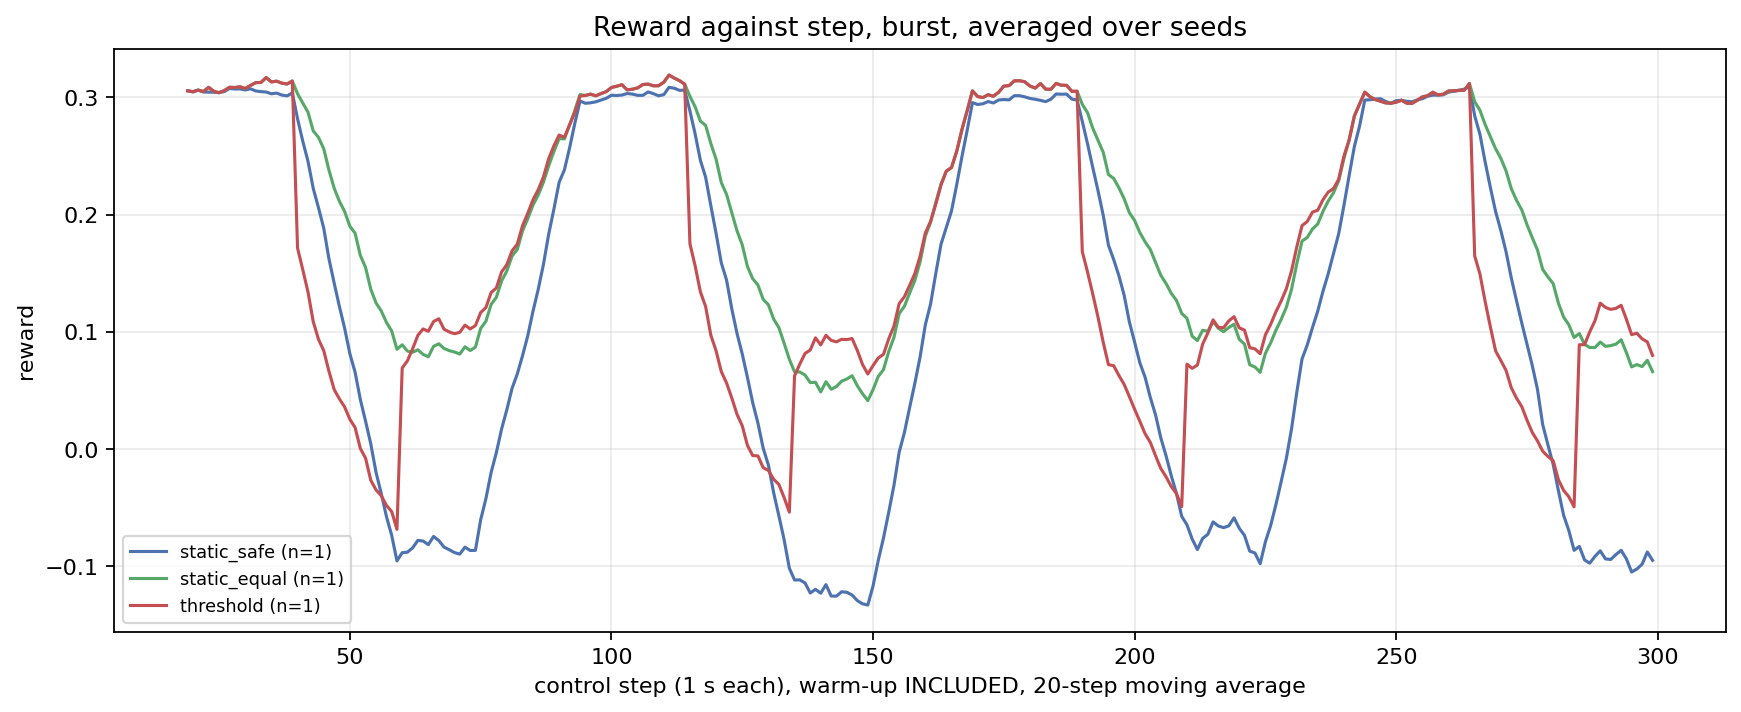
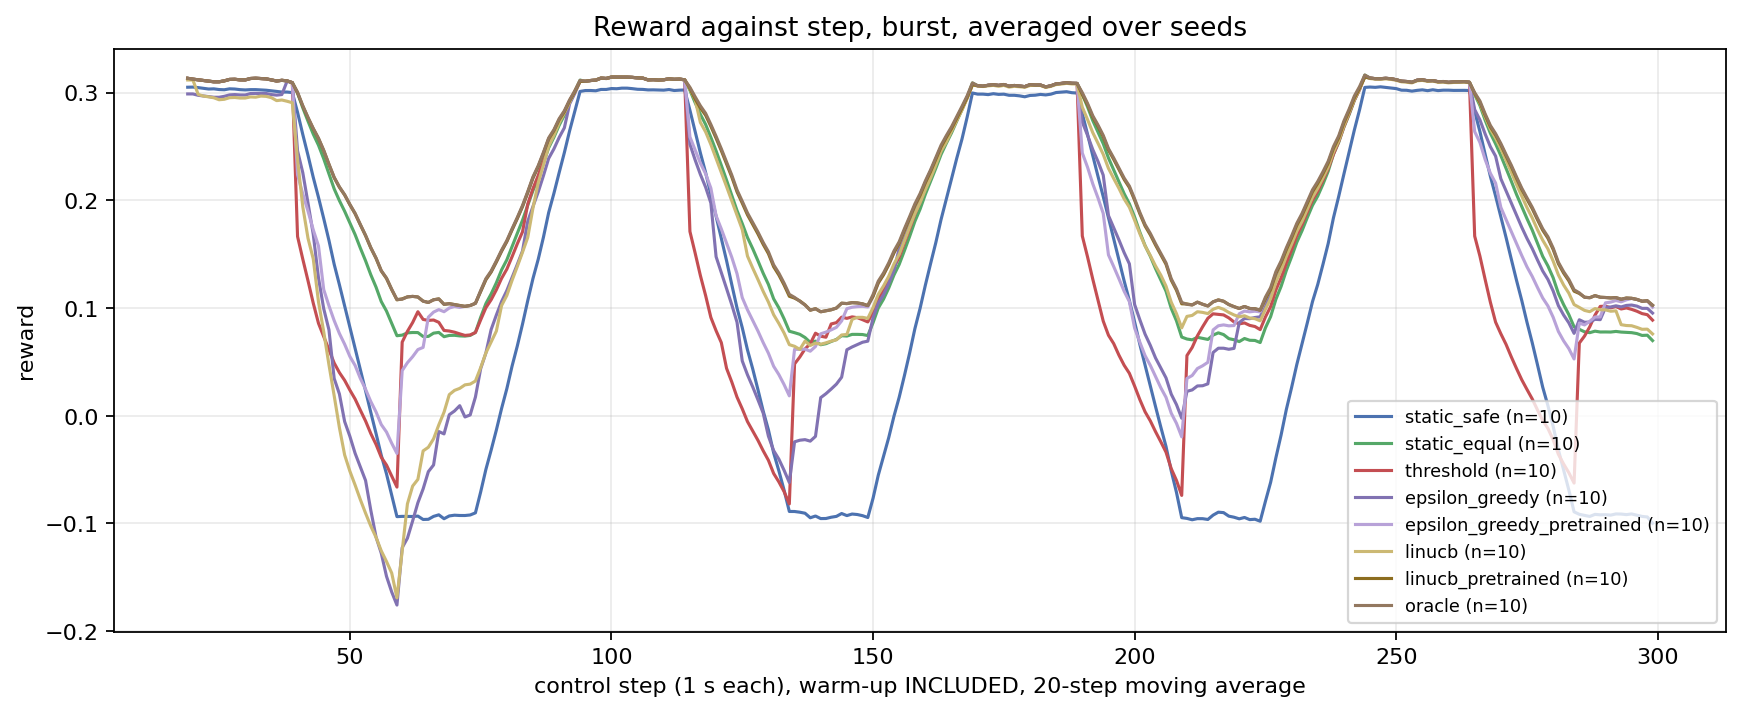
Quantify the guardrail's fast path; regenerate stale figures
Across all 320 runs (86,400 post-warm-up steps), 38.3 % of guardrail
escalations were tripped by the instantaneous p95 ALONE, against 4.8 % by
the EWMA alone. An EWMA-only guardrail would have missed more than a third
of them.

That decision was argued from first principles in week 1a with no evidence
behind it (docs/DESIGN.md section 4). It is the one design argument in the
project that the measurements later confirmed, so it is now stated with the
number rather than as a pointer at a figure.

Also: regenerated two figures that predated the final dataset, and
corrected the README's reproduction timings, which claimed 90 minutes for a
block of commands that takes about 30.

pytest -q: 121 passed.

Claude-Session: https://claude.ai/code/session_012qjq3AK2aXfZSQzmraFLmC

diff --git a/docs/EXPERIMENTS.md b/docs/EXPERIMENTS.md
@@ -236,8 +236,29 @@ shorter than the EWMA settling time. So:
 - The intervention rate is **not** a count of prevented violations. The counterfactual was never
   run. Some interventions would not have caused a violation at all.
 
-The instantaneous-tail fast path earns its place: `guardrail_escalation_source` is logged per step
-and figure `fig4_guardrail` shows the split between EWMA-only and instantaneous-only escalations.
+### The instantaneous fast path earns its place, and here is the number
+
+`docs/DESIGN.md` section 4 argued in week 1a that a guardrail watching only the smoothed latency
+would be late by construction against short sharp spikes, so the hard override fires on *either*
+the EWMA or the current p95, and `guardrail_escalation_source` records which. That was a design
+argument with no evidence behind it at the time. Across all 320 runs, 86,400 post-warm-up steps:
+
+| Which signal exceeded the threshold | steps | share of escalations |
+|---|---|---|
+| EWMA only (the slow path) | 838 | 4.8 % |
+| **instantaneous p95 only (the fast path)** | **6,740** | **38.3 %** |
+| both | 10,002 | 56.9 % |
+| total escalating steps | 17,580 | — |
+
+**An EWMA-only guardrail would have missed 38.3 % of all escalations** — 6,740 steps where latency
+had already crossed the threshold but the smoothed signal had not caught up. The converse case,
+where the EWMA fired and the instantaneous tail did not, accounts for 4.8 %. The fast path is
+carrying roughly eight times the unique load of the slow one, and dropping it would have quietly
+removed more than a third of the guardrail's coverage.
+
+This is the one design decision in the project that was argued from first principles in week one
+and is confirmed by measurement in week five. Figure `fig4_guardrail` shows the same split per
+policy.
 
 ---
 

diff --git a/README.md b/README.md
@@ -94,17 +94,26 @@ One run:
 python experiments/run_experiment.py --policy linucb --scenario burst --seed 0
 ```
 
-The whole thing, from nothing to tables and figures (about 90 minutes):
+Reproduce the results tables and figures (~30 min):
 
 ```bash
-python experiments/run_suite.py      # every policy x scenario x seed -> results/raw/
+python experiments/run_suite.py      # 320 runs -> results/raw/.  --resume continues an
+                                     # interrupted one without redoing finished cells.
 python -m analysis.aggregate         # seed-averaged tables -> results/summary/
 python -m analysis.plots             # five figures -> results/summary/figures/
 ```
 
-**Do not run two experiment scripts at once.** `decision_latency_ms` is measured against a real
-wall clock, and a second job on the same machine corrupts exactly the metric used to claim the
-method is lightweight.
+Reproduce the hyperparameter choice and the sensitivity study as well (~50 min more):
+
+```bash
+python experiments/tune.py                     # alpha and epsilon sweeps, 280 runs
+python experiments/sensitivity.py --resume     # reward-weight study, 720 runs
+```
+
+**Do not run two of these at once.** `decision_latency_ms` is measured against a real wall clock,
+and a second job on the same machine corrupts exactly the metric used to claim the method is
+lightweight. Both long scripts are resumable, so an interruption costs only the runs it was in
+the middle of.
 
 ---
 

diff --git a/docs/REPORT_OUTLINE.md b/docs/REPORT_OUTLINE.md
@@ -60,6 +60,11 @@ repository that ran.
 - Hyperparameters were selected on seeds disjoint from the evaluation seeds, and the pre-trained
   variants were trained on those same held-out seeds. Nothing was tuned or trained on a seed it
   was scored on.
+- **Watching the instantaneous latency tail as well as the EWMA is load-bearing, not belt-and-
+  braces.** Across all 320 runs, 38.3 % of guardrail escalations were triggered by the
+  instantaneous p95 alone, against 4.8 % by the EWMA alone. An EWMA-only guardrail would have
+  missed more than a third of them. Argued from first principles in week 1a, confirmed by
+  measurement afterwards.
 - **The learned policy is the only one whose behaviour responds to the reward weights.** Raising
   `w_sla` sixteen-fold moves LinUCB's violation rate from 1.51 % to 0.88 % and its eMBB goodput
   from 3.524 to 3.315 Mbps, with no re-tuning; `threshold` and both static baselines are
